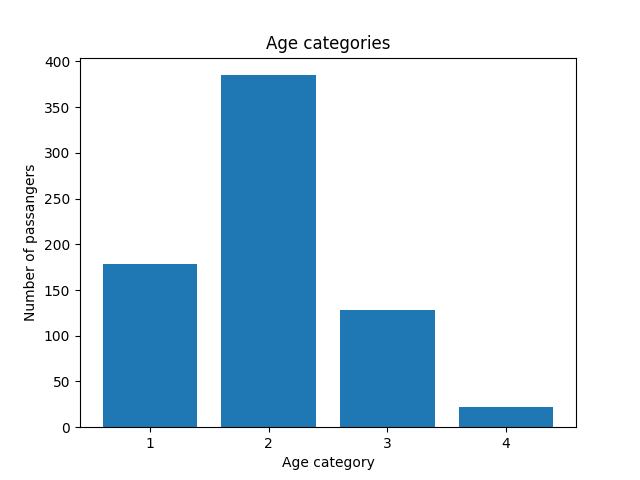
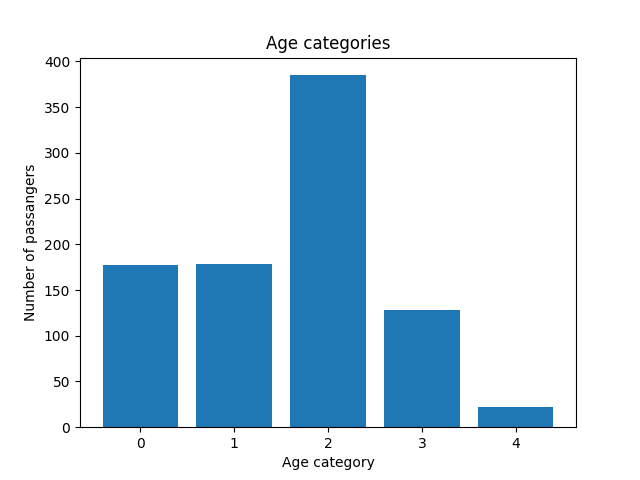
Finished task 6

diff --git a/proiect.py b/proiect.py
@@ -114,27 +114,33 @@ def task_4():
             print(f"Did not survive = {survived_array[0]}, Survived = {survived_array[1]}\n")
 
 def task_5():
+    if task == 5 or task == 0:
+        print("\n-------------- TASK 5 --------------\n")
+        print("Added 'AgeCategory' column to the dataframe and created 'AgeCategories' plot in task5-plots directory\n")
+
     # Initializam o lista care va contine numarul de persoane din fiecare
     # categorie de varsta si adaugam coloana AgeCategory imediat dupa coloana Age.
     # Vom incadra persoanele a caror varsta este necunoscuta in categoria 0.
-    category = [0, 0, 0, 0]
+    category = [0, 0, 0, 0, 0]
     ages = train_df['Age']
     train_df.insert(6, 'AgeCategory', 0)
 
     # Parcurgem coloana cu varstele, incrementam valoarea corespunzatoare din lista
     # de categorii si actualizam categoria de varsta a persoanei din tabel.
     for i in range(len(ages)):
-        if ages[i] <= 20:
+        if ages[i] != ages[i]:
             category[0] += 1
+        elif ages[i] <= 20:
+            category[1] += 1
             train_df.at[i, 'AgeCategory'] = 1
         elif ages[i] <= 40:
-            category[1] += 1
+            category[2] += 1
             train_df.at[i, 'AgeCategory'] = 2
         elif ages[i] <= 60:
-            category[2] += 1
-            train_df.at[i, 'AgeCategory'] = 3
-        elif ages[i] == ages[i]:
             category[3] += 1
+            train_df.at[i, 'AgeCategory'] = 3
+        else:
+            category[4] += 1
             train_df.at[i, 'AgeCategory'] = 4
 
     # Realizam graficul pentru a evidentia rezultatele
@@ -142,9 +148,47 @@ def task_5():
     plt.title("Age categories")
     plt.ylabel("Number of passangers")
     plt.xlabel("Age category")
-    plt.xticks([1, 2, 3, 4])
-    plt.bar([1, 2, 3, 4], category)
+    plt.xticks([0, 1, 2, 3, 4])
+    plt.bar([0, 1, 2, 3, 4], category)
     plt.savefig("task5-plots/AgeCategories.png")
+    plt.show()
+
+def task_6():
+    print("\n-------------- TASK 6 --------------\n")
+    print("'MaleSurvivors' graph added to task6-plots\n")
+    if task == 6:
+        task_5()
+
+    # Calculam numarul total de barbati si numarul de supravietuitori in functie
+    # de categoria de varsta.
+    male_survivors = [0, 0, 0, 0, 0]
+    total_males = [0, 0, 0, 0, 0]
+    age_categories = train_df['AgeCategory']
+    genders = train_df['Sex']
+    survivors = train_df['Survived']
+
+    for i in range(nr_rows):
+        if genders[i] == 'male':
+            total_males[age_categories[i]] += 1
+            if survivors[i] == True:
+                male_survivors[age_categories[i]] += 1
+
+    # Afisam numarul de supravietuitori din fiecare categorie de varsta
+    for i in range(len(male_survivors)):
+        print(f"Category {i}: {male_survivors[i]} survivors")
+
+    # Determinam procentul de barbati supravietuitori din fiecare categorie de varsta.
+    survivors_percentage = [x/y for x, y in zip(male_survivors, total_males)]
+
+    # Realizam graficul pentru a pune in evidenta modul in care varsta influenteaza
+    # procentul de supravietuire al barbatilor
+    plt.figure()
+    plt.title("Male survivors by age category")
+    plt.ylabel("Percentage of survivors")
+    plt.xlabel("Age category")
+    plt.xticks([0, 1, 2, 3, 4])
+    plt.bar([0, 1, 2, 3, 4], survivors_percentage)
+    plt.savefig("task6-plots/MaleSurvivors.png")
     plt.show()
 
 
@@ -172,3 +216,6 @@ if task == 4 or task == 0:
 
 if task == 5 or task == 0:
     task_5()
+
+if task == 6 or task == 0:
+    task_6()
